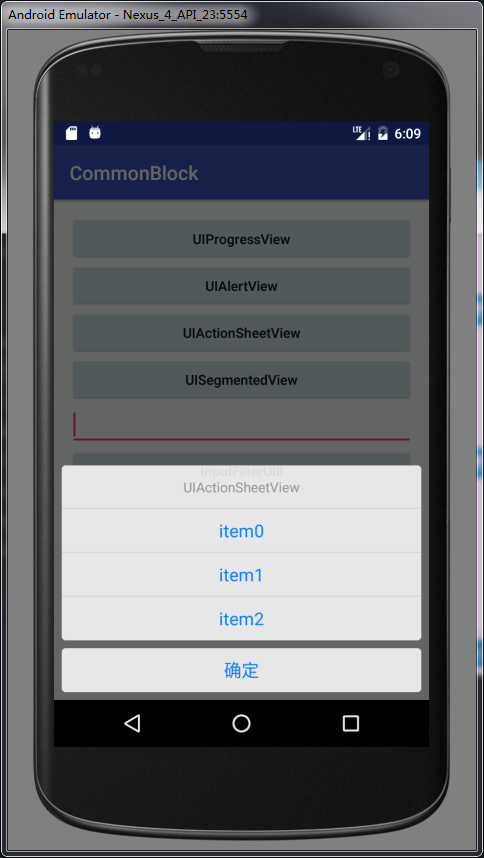
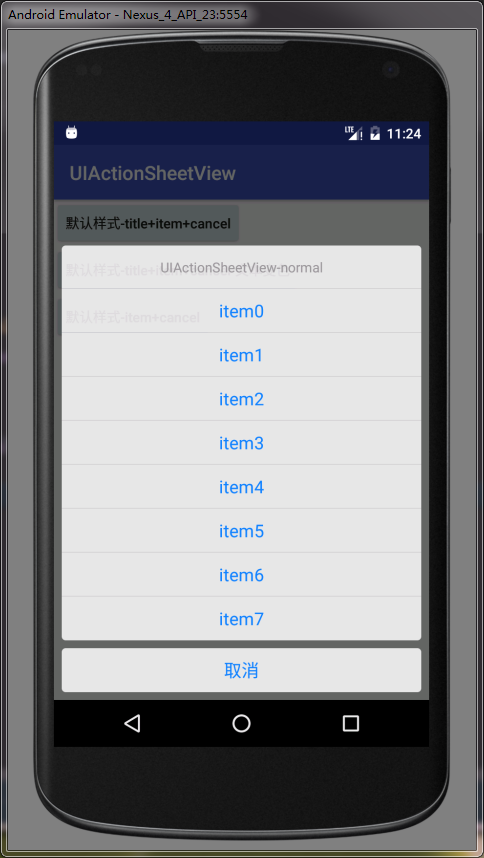
1、修改library名称 2、增加颜色设置支持Resource模式 3、增加item设置array

diff --git a/library/src/main/java/com/aries/ui/widget/action/sheet/UIActionSheetView.java b/library/src/main/java/com/aries/ui/widget/action/sheet/UIActionSheetView.java
@@ -19,6 +19,7 @@ import android.widget.LinearLayout.LayoutParams;
 import android.widget.TextView;
 
 import java.util.ArrayList;
+import java.util.Arrays;
 import java.util.List;
 
 /**
@@ -48,9 +49,6 @@ public class UIActionSheetView {
 
     public UIActionSheetView(Context context) {
         this.context = context;
-    }
-
-    public UIActionSheetView builder() {
         // 获取Dialog布局
         View view = LayoutInflater.from(context).inflate(
                 R.layout.layout_action_sheet_view, null);
@@ -85,7 +83,14 @@ public class UIActionSheetView {
                 lLayout_content.removeAllViews();
             }
         });
+    }
+
+    public UIActionSheetView builder() {
         return this;
+    }
+
+    public Dialog getDialog() {
+        return dialog;
     }
 
     /**
@@ -169,6 +174,16 @@ public class UIActionSheetView {
         return setTitleColor(Color.parseColor(color));
     }
 
+    public UIActionSheetView setTitleColorResoure(int colorRes) {
+        int color = context.getResources().getColor(R.color.colorActionSheetTitleText);
+        try {
+            color = context.getResources().getColor(colorRes);
+        } catch (Exception e) {
+
+        }
+        return setTitleColor(color);
+    }
+
     /**
      * 设置cancel 内容
      *
@@ -206,6 +221,16 @@ public class UIActionSheetView {
         return setCancelColor(Color.parseColor(color));
     }
 
+    public UIActionSheetView setCancelColorResource(int colorRes) {
+        int color = context.getResources().getColor(R.color.colorActionSheetTitleText);
+        try {
+            color = context.getResources().getColor(colorRes);
+        } catch (Exception e) {
+
+        }
+        return setCancelColor(color);
+    }
+
     public UIActionSheetView setView(View view) {
         if (lLayout_view != null && view != null) {
             lLayout_view.addView(view);
@@ -224,8 +249,8 @@ public class UIActionSheetView {
         return this;
     }
 
-    public UIActionSheetView setItems(String[] items, OnSheetItemListener onItemSelected) {
-        if (items == null || items.length == 0) {
+    public UIActionSheetView setItems(List<String> items, OnSheetItemListener onItemSelected) {
+        if (items == null || items.size() == 0) {
             return this;
         }
         List<SheetItem> list = new ArrayList<>();
@@ -235,8 +260,15 @@ public class UIActionSheetView {
         return setItems(list);
     }
 
-    public UIActionSheetView setItems(int items, OnSheetItemListener onItemSelected) {
-        return setItems(context.getResources().getStringArray(items), onItemSelected);
+    public UIActionSheetView setItems(String[] items, OnSheetItemListener onItemSelected) {
+        if (items == null || items.length == 0) {
+            return this;
+        }
+        return setItems(Arrays.asList(items), onItemSelected);
+    }
+
+    public UIActionSheetView setItems(int itemsRes, OnSheetItemListener onItemSelected) {
+        return setItems(context.getResources().getStringArray(itemsRes), onItemSelected);
     }
 
 
@@ -256,6 +288,21 @@ public class UIActionSheetView {
     }
 
     /**
+     * @param index
+     * @param colorRes
+     * @return
+     */
+    public UIActionSheetView setItemTextColorResource(int index, int colorRes) {
+        int color = context.getResources().getColor(R.color.colorActionSheetItemText);
+        try {
+            color = context.getResources().getColor(colorRes);
+        } catch (Exception e) {
+
+        }
+        return setItemTextColor(index, color);
+    }
+
+    /**
      * 设置所有item颜色-setItems后调用
      *
      * @param color
@@ -269,6 +316,20 @@ public class UIActionSheetView {
             item.color = color;
         }
         return this;
+    }
+
+    /**
+     * @param colorRes 设置资源文件颜色
+     * @return
+     */
+    public UIActionSheetView setItemsTextColorResource(int colorRes) {
+        int color = context.getResources().getColor(R.color.colorActionSheetItemText);
+        try {
+            color = context.getResources().getColor(colorRes);
+        } catch (Exception e) {
+
+        }
+        return setItemsTextColor(color);
     }
 
     /**

diff --git a/app/src/main/java/com/aries/actionsheet/MainActivity.java b/app/src/main/java/com/aries/actionsheet/MainActivity.java
@@ -1,13 +1,61 @@
 package com.aries.actionsheet;
 
+import android.graphics.Color;
 import android.os.Bundle;
 import android.support.v7.app.AppCompatActivity;
+import android.view.View;
+import android.widget.Toast;
+
+import com.aries.ui.widget.action.sheet.UIActionSheetView;
 
 public class MainActivity extends AppCompatActivity {
+
+    String[] items = new String[]{"item0", "item1", "item2", "item3", "item4", "item5", "item6"};
 
     @Override
     protected void onCreate(Bundle savedInstanceState) {
         super.onCreate(savedInstanceState);
         setContentView(R.layout.activity_main);
+        findViewById(R.id.btn_normal).setOnClickListener(new View.OnClickListener() {
+            @Override
+            public void onClick(View v) {
+                new UIActionSheetView(MainActivity.this)
+                        .setTitle("UIActionSheetView-normal")
+                        .setCancelMessage("取消")
+                        .setItems(R.array.arrays_items_action, onActionSheetItemLister)
+                        .show();
+            }
+        });
+        findViewById(R.id.btn_normalColor).setOnClickListener(new View.OnClickListener() {
+            @Override
+            public void onClick(View v) {
+                new UIActionSheetView(MainActivity.this)
+                        .setTitle("UIActionSheetView-变色")
+                        .setTitleColorResoure(R.color.colorItems)
+                        .setCancelMessage("取消")
+                        .setCancelColorResource(R.color.colorAccent)
+                        .setItems(R.array.arrays_items_action, onActionSheetItemLister)
+                        .setItemsTextColorResource(R.color.colorAccent)
+                        .setItemTextColor(2, Color.parseColor("#000000"))
+                        .setItemTextColorResource(5,R.color.colorItems)
+                        .show();
+            }
+        });
+        findViewById(R.id.btn_noTitle).setOnClickListener(new View.OnClickListener() {
+            @Override
+            public void onClick(View v) {
+                new UIActionSheetView(MainActivity.this)
+                        .setCancelMessage("取消")
+                        .setItems(R.array.arrays_items_action, onActionSheetItemLister)
+                        .show();
+            }
+        });
     }
+
+    private UIActionSheetView.OnSheetItemListener onActionSheetItemLister = new UIActionSheetView.OnSheetItemListener() {
+        @Override
+        public void onClick(int item) {
+            Toast.makeText(MainActivity.this, "item position:" + item, Toast.LENGTH_SHORT).show();
+        }
+    };
 }

diff --git a/README.md b/README.md
@@ -23,3 +23,4 @@ dependencies {
 
 ####二、截图预览
 ![](https://github.com/AriesHoo/UIActionSheetView/blob/master/screenshot/00.png)
+![](https://github.com/AriesHoo/UIActionSheetView/blob/master/screenshot/01.png)
